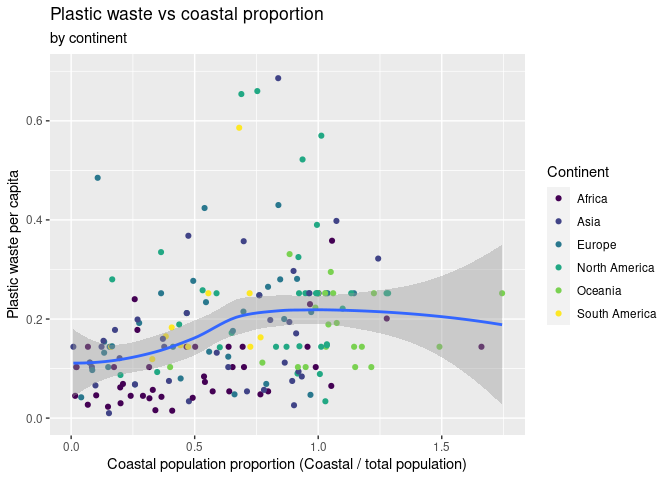
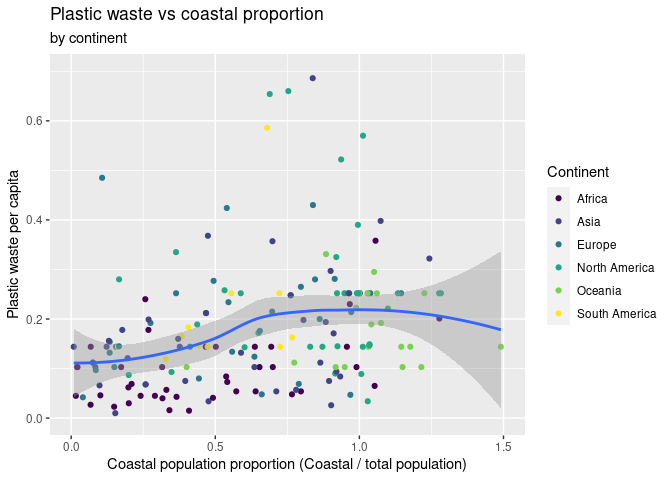
Fix whitespace and style guide

diff --git a/lab-02.md b/lab-02.md
@@ -218,15 +218,15 @@ ggplot(data = plastic_waste) +
   geom_point(mapping = aes(x = coastal_pop/total_pop, 
                      y = plastic_waste_per_cap, color = continent)) +
   geom_smooth(mapping = aes(x = coastal_pop/total_pop, 
-                     y = plastic_waste_per_cap))+ ylim(0, 0.7) + xlim(0, 1.75) +
-  labs(x = "Coastal population proportion (Coastal / total population)", y="Plastic waste per capita", title = "Plastic waste vs coastal proportion", subtitle = "by continent", color = "Continent") +
+                     y = plastic_waste_per_cap)) + ylim(0, 0.7) + xlim(0, 1.5) +
+  labs(x = "Coastal population proportion (Coastal / total population)", y = "Plastic waste per capita", title = "Plastic waste vs coastal proportion", subtitle = "by continent", color = "Continent") +
 scale_colour_viridis_d()
 ```
 
     ## `geom_smooth()` using method = 'loess' and formula 'y ~ x'
 
-    ## Warning: Removed 62 rows containing non-finite values (stat_smooth).
+    ## Warning: Removed 64 rows containing non-finite values (stat_smooth).
 
-    ## Warning: Removed 62 rows containing missing values (geom_point).
+    ## Warning: Removed 64 rows containing missing values (geom_point).
 
 ![](lab-02_files/figure-gfm/recreate-viz-1.png)<!-- -->
